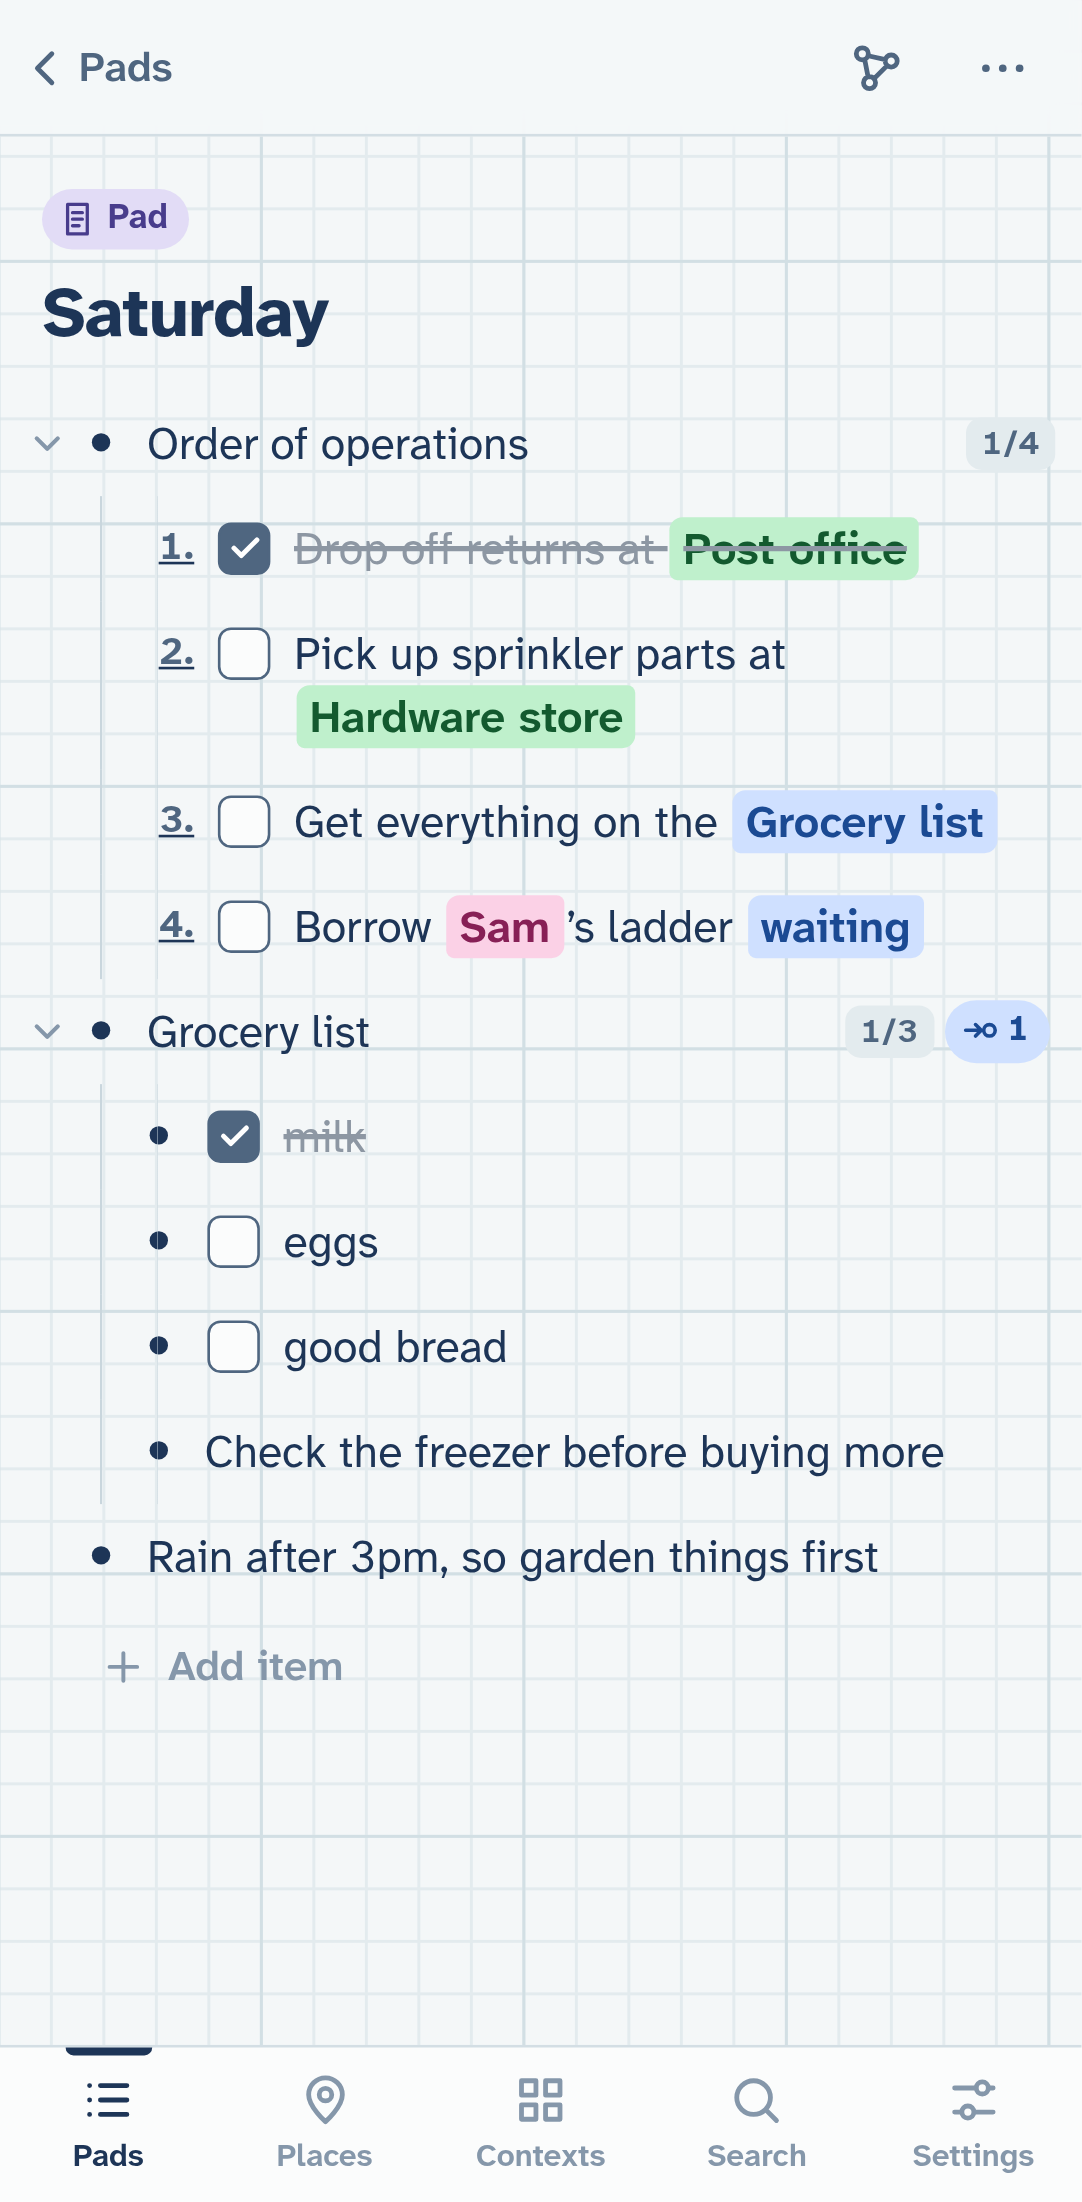
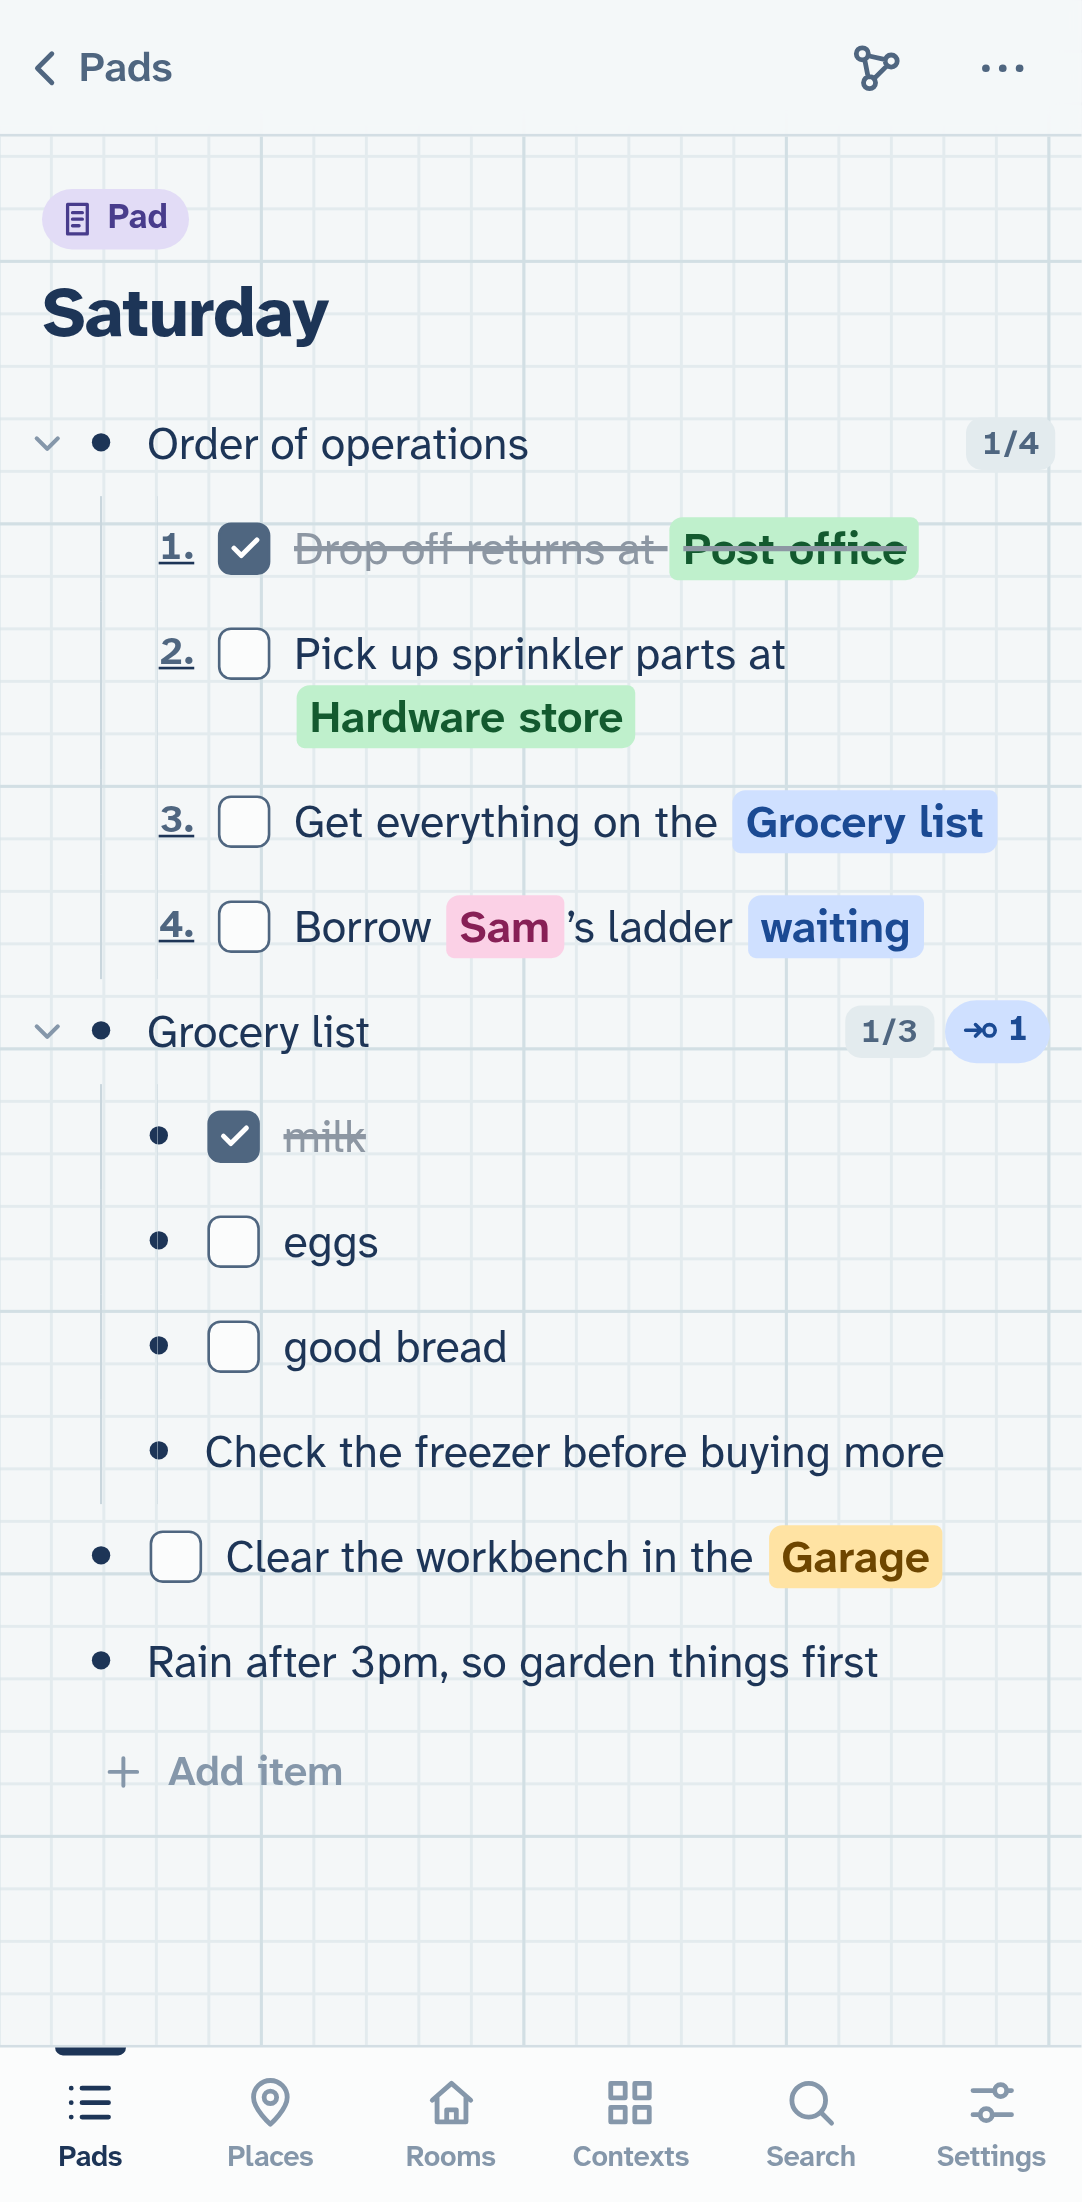
README screenshots show contexts and relations
Three screenshots now: the Saturday pad, with links coloured by kind of
context (places, a person, a room from a "Rooms" kind with its own tab);
the Hardware store page, with linked lines labelled by relation (a kept
"buy at" that also covers "pick up at", and outlined suggestions); and the
graph with labelled links. The example data gains the Rooms kind, a Garage,
and the kept relation. Contexts are drawn the same size in the graph
whatever their node kind.

Claude-Session: https://claude.ai/code/session_013hgWCsSFmwQTxXN2GTq1RW

diff --git a/src/views/GraphView.vue b/src/views/GraphView.vue
@@ -176,7 +176,9 @@ function update(d: Neighborhood) {
     }
     Object.assign(node, n)
     node.order = orderOf.get(n.id) ?? null
-    node.r = n.id === d.center ? RADIUS[n.kind] + 5 : node.order !== null ? 10 : RADIUS[n.kind]
+    // Contexts (places, people, rooms…) are drawn alike, whatever their node kind.
+    const base = n.tone != null ? RADIUS.place : RADIUS[n.kind]
+    node.r = n.id === d.center ? base + 5 : node.order !== null ? 10 : base
     // Numbered items always get a label: the order is the point.
     node.text = !busy || major || node.order !== null ? truncate(n.label, n.id === d.center ? 26 : 22) : ''
     // The focus stays put; everything else is free (unless being dragged).

diff --git a/README.md b/README.md
@@ -3,11 +3,12 @@
 A phone-first outliner that stores everything as a graph. Write nested lists of to-dos and notes; link any line to any other node with `@`; open a place like "Hardware store" to see every open to-do that points at it, across all your lists. It's an installable PWA that works offline, with all data in SQLite on the device, and it syncs between your devices through a small server of your own when it can reach one.
 
 <p align="center">
-  <img src="docs/screenshots/outline.png" width="300" alt="A pad called Saturday: a numbered list of to-dos with chips linking to places, a person, a grocery list and a waiting state; a grocery checklist showing 1/3 done and 1 link; plain bullet notes">
-  <img src="docs/screenshots/graph.png" width="300" alt="The graph around Saturday, three steps out: the numbered list as an ordered column, to-dos as boxes, notes as circles, the done items dimmed, and dashed links to two places, a person and the waiting state">
+  <img src="docs/screenshots/outline.png" width="260" alt="A pad called Saturday: a numbered list of to-dos and a grocery checklist, with links coloured by what they point at: green places, a pink person, an amber room. The bottom bar has tabs for Places and Rooms.">
+  <img src="docs/screenshots/context.png" width="260" alt="The Hardware store page: four open to-dos that link to it, labelled by relation. Two are buy at, a relation kept (one was written pick up at); grab at and return to are suggestions, outlined. Chips at the top filter by relation.">
+  <img src="docs/screenshots/graph.png" width="260" alt="The graph around Saturday, three steps out: the numbered list as an ordered column, to-dos as boxes, notes as circles, and dashed links labelled with their relation to places, a person, a room and a waiting state.">
 </p>
 
-A pad with a numbered list, to-dos and plain notes, and links to places, a person and a "waiting" state (left), and the same pad's graph three steps out (right). `npm run screenshots` rebuilds both from example data.
+A pad with to-dos, notes and links to contexts of different kinds: places, a person, and a room from a kind of context you made, with its own tab (left). A place's page, with what links there labelled by relation; *buy at* is one you kept ("pick up at" counts as it too), the outlined ones are suggestions (middle). The pad's graph, with links labelled (right). `npm run screenshots` rebuilds all three from example data.
 
 Inside, it’s still `graph-scratchpad`: the repo, the on-device database, export files, and the servers’ paths and services.
 
